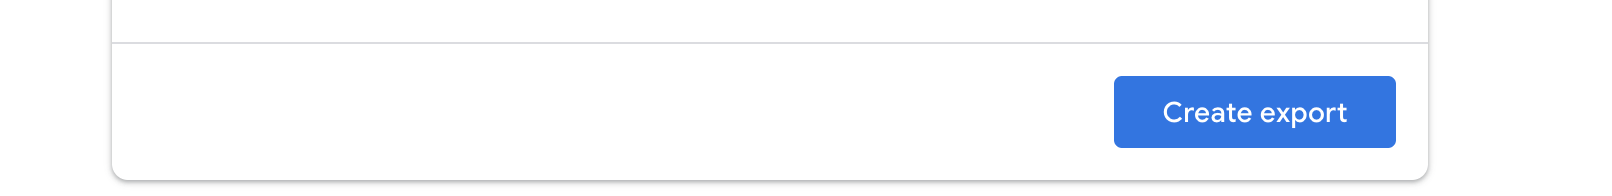
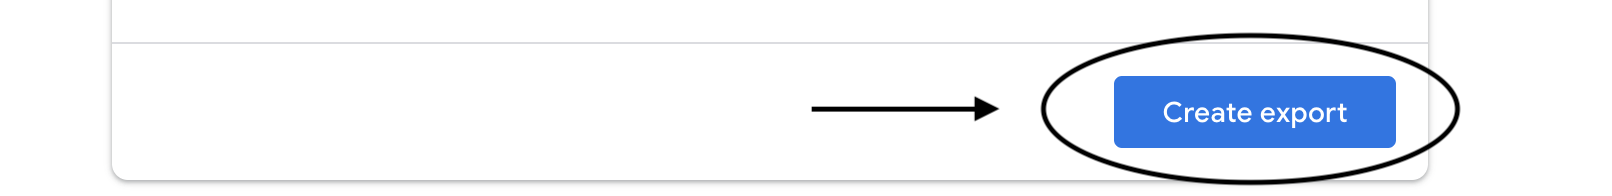
improve the step by step guide and add the first heatma

diff --git a/src/website-static/src/heatmap.html b/src/website-static/src/heatmap.html
@@ -1,0 +1,70 @@
+<!DOCTYPE html>
+<head>    
+    <meta http-equiv="content-type" content="text/html; charset=UTF-8" />
+    
+        <script>
+            L_NO_TOUCH = false;
+            L_DISABLE_3D = false;
+        </script>
+    
+    <script src="https://cdn.jsdelivr.net/npm/leaflet@1.5.1/dist/leaflet.js"></script>
+    <script src="https://code.jquery.com/jquery-1.12.4.min.js"></script>
+    <script src="https://maxcdn.bootstrapcdn.com/bootstrap/3.2.0/js/bootstrap.min.js"></script>
+    <script src="https://cdnjs.cloudflare.com/ajax/libs/Leaflet.awesome-markers/2.0.2/leaflet.awesome-markers.js"></script>
+    <link rel="stylesheet" href="https://cdn.jsdelivr.net/npm/leaflet@1.5.1/dist/leaflet.css"/>
+    <link rel="stylesheet" href="https://maxcdn.bootstrapcdn.com/bootstrap/3.2.0/css/bootstrap.min.css"/>
+    <link rel="stylesheet" href="https://maxcdn.bootstrapcdn.com/bootstrap/3.2.0/css/bootstrap-theme.min.css"/>
+    <link rel="stylesheet" href="https://maxcdn.bootstrapcdn.com/font-awesome/4.6.3/css/font-awesome.min.css"/>
+    <link rel="stylesheet" href="https://cdnjs.cloudflare.com/ajax/libs/Leaflet.awesome-markers/2.0.2/leaflet.awesome-markers.css"/>
+    <link rel="stylesheet" href="https://rawcdn.githack.com/python-visualization/folium/master/folium/templates/leaflet.awesome.rotate.css"/>
+    <style>html, body {width: 100%;height: 100%;margin: 0;padding: 0;}</style>
+    <style>#map {position:absolute;top:0;bottom:0;right:0;left:0;}</style>
+    
+            <meta name="viewport" content="width=device-width,
+                initial-scale=1.0, maximum-scale=1.0, user-scalable=no" />
+            <style>
+                #map_7236aee33f90442585986cfd964aebcf {
+                    position: relative;
+                    width: 100.0%;
+                    height: 100.0%;
+                    left: 0.0%;
+                    top: 0.0%;
+                }
+            </style>
+        
+    <script src="https://leaflet.github.io/Leaflet.heat/dist/leaflet-heat.js"></script>
+</head>
+<body>    
+    
+            <div class="folium-map" id="map_7236aee33f90442585986cfd964aebcf" ></div>
+        
+</body>
+<script>    
+    
+            var map_7236aee33f90442585986cfd964aebcf = L.map(
+                "map_7236aee33f90442585986cfd964aebcf",
+                {
+                    center: [51.244, 6.779],
+                    crs: L.CRS.EPSG3857,
+                    zoom: 6,
+                    zoomControl: true,
+                    preferCanvas: false,
+                }
+            );
+
+            
+
+        
+    
+            var tile_layer_2fa359843be443e6b532c77169dd2cba = L.tileLayer(
+                "https://{s}.tile.openstreetmap.org/{z}/{x}/{y}.png",
+                {"attribution": "Data by \u0026copy; \u003ca href=\"http://openstreetmap.org\"\u003eOpenStreetMap\u003c/a\u003e, under \u003ca href=\"http://www.openstreetmap.org/copyright\"\u003eODbL\u003c/a\u003e.", "detectRetina": false, "maxNativeZoom": 18, "maxZoom": 18, "minZoom": 0, "noWrap": false, "opacity": 1, "subdomains": "abc", "tms": false}
+            ).addTo(map_7236aee33f90442585986cfd964aebcf);
+        
+    
+            var heat_map_7eadd16f68cb4b10981fe6496fd482d6 = L.heatLayer(
+                [[51.246, 6.779, 4], [51.244, 6.779, 0], [51.244, 6.776, 3], [51.244, 6.778, 4], [51.244, 6.777, 5], [51.244, 6.775, 2], [51.244, 6.774, 2], [51.244, 6.772, 29], [51.244, 6.771, 1], [51.243, 6.772, 12], [51.226, 6.777, 32], [51.226, 6.776, 5], [51.226, 6.775, 1], [51.225, 6.775, 4], [51.225, 6.774, 4], [51.225, 6.773, 2], [51.225, 6.772, 23], [51.225, 6.771, 2], [51.226, 6.77, 2], [51.225, 6.77, 3], [51.226, 6.771, 14], [51.227, 6.771, 5], [51.227, 6.772, 21], [51.227, 6.773, 55], [51.227, 6.774, 23], [51.227, 6.775, 11], [51.227, 6.776, 22], [51.22, 6.794, 50], [51.219, 6.794, 21], [51.219, 6.795, 21], [51.22, 6.793, 7], [51.218, 6.792, 1], [51.213, 6.79, 1], [51.21, 6.79, 1], [51.208, 6.808, 1], [51.206, 6.819, 1], [51.204, 6.826, 2], [51.198, 6.843, 1], [51.189, 6.851, 2], [51.154, 6.885, 1], [51.119, 6.923, 1], [51.12, 6.922, 4], [51.014, 7.012, 1], [50.992, 7.008, 1], [50.953, 7.006, 1], [50.953, 6.992, 1], [50.953, 6.994, 1], [50.941, 6.976, 4], [50.944, 6.965, 9], [50.943, 6.965, 1], [50.943, 6.958, 54], [50.944, 6.958, 3], [50.943, 6.959, 18], [50.942, 6.957, 6], [50.943, 6.956, 1], [50.942, 6.956, 4], [50.942, 6.954, 1], [50.943, 6.961, 1], [50.942, 6.959, 1], [50.941, 6.957, 4], [50.941, 6.956, 1], [50.94, 6.958, 2], [50.939, 6.956, 1], [50.939, 6.957, 3], [50.939, 6.958, 8], [50.937, 6.956, 8], [50.935, 6.956, 2], [50.935, 6.954, 3], [50.935, 6.955, 1], [50.93, 6.96, 4], [50.933, 6.955, 3], [50.932, 6.954, 9], [50.932, 6.955, 1], [50.93, 6.952, 2], [50.931, 6.951, 1], [50.931, 6.95, 3], [50.931, 6.952, 2], [50.929, 6.95, 1], [50.932, 6.95, 1], [50.93, 6.944, 2], [50.928, 6.943, 1], [50.929, 6.943, 25], [50.929, 6.942, 10], [50.927, 6.939, 1], [50.928, 6.94, 1], [50.927, 6.938, 32], [50.93, 6.939, 16], [50.93, 6.938, 12], [50.929, 6.938, 2], [50.929, 6.937, 3], [50.928, 6.936, 5], [50.926, 6.939, 2], [50.928, 6.937, 4], [50.936, 6.931, 1], [50.938, 6.932, 1], [50.942, 6.933, 3], [50.943, 6.932, 1], [50.948, 6.934, 1], [50.952, 6.946, 2], [50.949, 6.952, 1], [50.948, 6.953, 1], [50.948, 6.954, 1], [50.947, 6.954, 2], [50.944, 6.96, 6], [50.943, 6.96, 3], [50.942, 6.971, 1], [50.94, 6.977, 2], [50.941, 6.977, 2], [50.941, 6.982, 1], [50.944, 6.992, 1], [50.945, 6.995, 1], [50.952, 7.003, 3], [50.956, 7.011, 4], [50.932, 6.972, 1], [51.029, 6.993, 3], [51.032, 6.992, 2], [51.033, 6.991, 2], [51.039, 6.99, 5], [51.102, 6.938, 3], [51.129, 6.913, 3], [51.166, 6.872, 1], [51.17, 6.875, 1], [51.178, 6.868, 2], [51.187, 6.854, 1], [51.206, 6.813, 2], [51.214, 6.791, 1], [51.217, 6.792, 1], [51.22, 6.795, 43], [51.213, 6.806, 1], [51.213, 6.807, 0], [51.212, 6.807, 13], [51.213, 6.808, 40], [51.214, 6.806, 1], [51.215, 6.804, 1], [51.22, 6.8, 2], [51.22, 6.799, 2], [51.225, 6.795, 1], [51.227, 6.793, 2], [51.228, 6.793, 3], [51.228, 6.792, 1], [51.232, 6.789, 1], [51.232, 6.788, 2], [51.233, 6.788, 1], [51.235, 6.788, 1], [51.239, 6.787, 2], [51.241, 6.784, 1], [51.242, 6.783, 2], [51.242, 6.78, 2], [51.245, 6.775, 11], [51.243, 6.781, 13], [51.245, 6.779, 7], [51.242, 6.782, 1], [51.241, 6.774, 1], [51.238, 6.778, 2], [51.235, 6.777, 1], [51.234, 6.779, 2], [51.233, 6.78, 1], [51.23, 6.777, 2], [51.227, 6.777, 1], [51.228, 6.776, 178], [51.226, 6.774, 2], [51.224, 6.775, 1], [51.224, 6.776, 1], [51.223, 6.776, 23], [51.223, 6.772, 1], [51.222, 6.774, 33], [51.222, 6.775, 4], [51.226, 6.778, 3], [51.22, 6.792, 1], [51.224, 6.795, 5], [51.226, 6.792, 2], [51.23, 6.787, 4], [51.231, 6.793, 5], [51.241, 6.783, 1], [51.245, 6.78, 5], [51.244, 6.781, 2], [51.221, 6.791, 1], [51.221, 6.792, 2], [49.484, 8.448, 7], [50.98, 7.013, 1], [50.976, 7.013, 1], [50.053, 8.569, 8], [50.081, 8.637, 2], [50.083, 8.639, 1], [50.084, 8.638, 1], [50.087, 8.636, 1], [50.107, 8.663, 13], [50.106, 8.664, 1], [50.108, 8.661, 2], [50.283, 8.772, 1], [50.579, 8.666, 1], [50.592, 8.671, 1], [50.816, 8.777, 1], [50.807, 8.811, 19], [50.807, 8.81, 7], [50.801, 8.764, 341], [50.8, 8.766, 1], [50.8, 8.788, 1], [50.798, 8.78, 1], [50.795, 8.764, 1], [50.803, 8.759, 1], [50.807, 8.764, 1], [50.807, 8.768, 1], [50.819, 8.774, 5], [50.821, 8.773, 12], [50.821, 8.772, 1], [50.794, 8.764, 1], [50.794, 8.763, 3], [50.802, 8.762, 1], [50.807, 8.772, 1], [50.82, 8.773, 1], [50.808, 8.776, 1], [50.807, 8.777, 3], [50.802, 8.766, 3], [50.797, 8.772, 1], [51.244, 6.78, 1], [51.245, 6.783, 11], [51.244, 6.783, 4], [51.207, 6.774, 260], [51.21, 6.777, 5], [51.211, 6.774, 7], [51.208, 6.775, 13], [51.208, 6.776, 3], [47.547, 7.59, 9], [47.547, 7.589, 2], [50.053, 8.57, 4], [50.053, 8.571, 1], [50.103, 8.653, 1], [50.103, 8.655, 1], [50.104, 8.656, 1], [50.105, 8.662, 1], [50.106, 8.663, 1], [50.108, 8.663, 2], [50.108, 8.662, 4], [50.106, 8.66, 1], [50.333, 8.761, 2], [50.431, 8.67, 1], [50.58, 8.663, 1], [50.814, 8.769, 30], [50.811, 8.775, 36], [50.81, 8.774, 2], [50.809, 8.774, 1], [50.801, 8.765, 3], [50.8, 8.764, 1], [50.809, 8.773, 1], [50.819, 8.775, 2], [50.151, 8.639, 1], [50.937, 6.966, 1], [50.942, 6.969, 1], [50.944, 6.959, 1], [51.106, 6.935, 1], [51.207, 6.817, 1], [51.21, 6.792, 1], [51.213, 6.791, 1], [51.215, 6.791, 1], [51.212, 6.789, 1], [51.207, 6.775, 1], [51.208, 6.777, 4], [51.226, 6.782, 1], [51.226, 6.783, 15], [51.24, 6.781, 3], [51.239, 6.78, 2], [51.236, 6.779, 2], [51.231, 6.78, 1], [51.209, 6.777, 2], [51.207, 6.771, 1], [51.21, 6.76, 1], [51.213, 6.747, 2], [51.214, 6.746, 12], [51.215, 6.756, 5], [51.215, 6.755, 3], [51.214, 6.756, 1], [51.214, 6.755, 2], [51.213, 6.753, 5], [51.212, 6.785, 1], [51.217, 6.79, 1], [51.22, 6.791, 1], [51.222, 6.792, 1], [51.225, 6.787, 1], [51.24, 6.782, 3], [51.238, 6.779, 1], [51.209, 6.776, 3], [51.229, 6.778, 1], [51.234, 6.778, 1], [51.241, 6.782, 2], [51.227, 6.783, 1], [51.21, 6.775, 1], [51.21, 6.776, 1], [51.21, 6.774, 1], [51.233, 6.779, 2], [51.246, 6.781, 1], [51.245, 6.782, 2], [51.21, 6.78, 1], [51.207, 6.778, 1], [51.241, 6.778, 2], [51.237, 6.776, 1], [51.234, 6.784, 1], [51.229, 6.791, 2], [50.051, 8.571, 2], [50.051, 8.57, 1], [50.05, 8.569, 1], [50.049, 8.569, 1], [50.049, 8.566, 1], [50.048, 8.563, 4], [50.048, 8.562, 1], [50.048, 8.564, 10], [50.048, 8.565, 5], [50.048, 8.568, 1], [50.048, 8.566, 1], [38.78, -9.13, 1], [38.782, -9.129, 1], [38.771, -9.14, 1], [38.768, -9.128, 1], [38.7, -9.295, 0], [38.695, -9.304, 5], [38.694, -9.304, 9], [38.731, -9.146, 1], [38.743, -9.134, 1], [38.745, -9.135, 1], [38.744, -9.137, 2], [38.707, -9.296, 1], [38.711, -9.289, 4], [38.711, -9.288, 1], [38.706, -9.295, 2], [52.361, 4.942, 0], [52.361, 4.941, 17], [52.358, 4.948, 1], [52.367, 4.913, 23], [52.367, 4.912, 23], [52.367, 4.91, 1], [52.369, 4.903, 2], [52.372, 4.9, 1], [52.373, 4.883, 1], [52.369, 4.871, 17], [52.369, 4.87, 2], [52.37, 4.871, 1], [52.36, 4.942, 4], [52.358, 4.917, 1], [52.35, 4.892, 1], [52.345, 4.857, 1], [52.331, 4.852, 17], [52.332, 4.852, 22], [52.332, 4.857, 2], [52.341, 4.894, 1], [52.361, 4.94, 5], [52.365, 4.937, 1], [52.365, 4.936, 12], [52.359, 4.941, 1], [52.36, 4.941, 1], [52.362, 4.94, 5], [52.377, 4.912, 26], [52.375, 4.917, 3], [52.359, 4.917, 1], [52.363, 4.911, 16], [52.362, 4.911, 17], [52.376, 4.911, 1], [52.362, 4.941, 1], [52.36, 4.94, 1], [52.358, 4.927, 15], [52.358, 4.926, 1], [38.7, -9.296, 0], [38.703, -9.295, 3], [38.802, -9.379, 58], [38.803, -9.375, 1], [38.802, -9.38, 4], [38.801, -9.378, 10], [38.702, -9.297, 43], [38.697, -9.293, 1], [38.695, -9.292, 2], [38.691, -9.358, 14], [38.691, -9.357, 3], [38.691, -9.356, 1], [38.697, -9.292, 34], [38.703, -9.299, 1], [38.749, -9.231, 17], [38.75, -9.232, 3], [38.75, -9.23, 21], [38.749, -9.229, 1], [38.747, -9.241, 1], [38.698, -9.295, 15], [38.701, -9.294, 2], [38.71, -9.287, 1], [38.71, -9.275, 1], [38.747, -9.271, 1], [38.749, -9.23, 1], [38.747, -9.235, 2], [38.748, -9.269, 1], [38.704, -9.298, 9], [39.086, -9.256, 1], [39.092, -9.256, 5], [39.091, -9.256, 1], [38.706, -9.302, 3], [38.705, -9.302, 6], [38.702, -9.295, 26], [38.693, -9.297, 1], [38.802, -9.132, 1], [38.784, -9.108, 1], [38.714, -8.973, 1], [38.71, -8.974, 1], [38.708, -8.974, 43], [38.708, -8.975, 7], [38.709, -8.974, 1], [38.711, -8.973, 3], [38.709, -8.975, 1], [38.711, -8.948, 1], [38.767, -9.096, 2], [38.757, -9.27, 9], [38.697, -9.302, 2], [38.703, -9.308, 2], [38.702, -9.308, 2], [38.698, -9.302, 2], [38.679, -9.326, 2], [38.678, -9.325, 10], [38.685, -9.313, 1], [38.698, -9.296, 20], [38.692, -9.296, 5], [38.695, -9.293, 1], [38.678, -9.329, 1], [38.687, -9.353, 1], [38.691, -9.355, 6], [38.69, -9.355, 5], [38.69, -9.356, 2], [38.69, -9.354, 8], [38.689, -9.345, 1], [38.69, -9.341, 1], [38.692, -9.327, 1], [38.692, -9.328, 1], [38.691, -9.317, 1], [38.745, -9.164, 1], [38.743, -9.169, 3], [38.745, -9.166, 1], [38.744, -9.169, 1], [38.743, -9.17, 1], [38.743, -9.168, 5], [38.697, -9.3, 1], [38.702, -9.294, 9], [38.712, -9.304, 3], [38.703, -9.301, 2], [38.705, -9.303, 4], [38.758, -9.237, 18], [38.756, -9.235, 2], [38.703, -9.294, 74], [38.735, -9.158, 24], [38.734, -9.158, 63], [38.735, -9.159, 20], [38.738, -9.157, 1], [38.714, -9.276, 1], [38.74, -9.159, 2], [38.743, -9.154, 15], [38.744, -9.157, 1], [38.729, -9.171, 1], [38.724, -9.173, 3], [38.705, -9.238, 2], [38.704, -9.238, 1], [38.706, -9.239, 1], [38.703, -9.298, 8], [38.699, -9.291, 2], [38.698, -9.292, 4], [38.704, -9.296, 11], [38.698, -9.291, 5], [38.693, -9.298, 18], [38.681, -9.347, 1], [38.692, -9.359, 1], [38.682, -9.317, 1], [38.701, -9.296, 1], [38.714, -9.3, 2], [38.701, -9.295, 171], [38.711, -9.297, 1], [38.75, -9.229, 12], [38.75, -9.233, 1], [38.748, -9.252, 1], [38.696, -9.294, 3], [38.709, -9.28, 1], [38.711, -9.271, 1], [38.769, -9.269, 1], [38.772, -9.264, 1], [38.773, -9.258, 1], [38.779, -9.248, 1], [38.783, -9.245, 1], [38.786, -9.242, 1], [38.788, -9.24, 1], [38.79, -9.24, 1], [38.788, -9.176, 1], [38.787, -9.177, 1], [38.787, -9.173, 1], [38.773, -9.102, 1], [38.712, -8.984, 1], [38.795, -9.118, 1], [38.699, -9.292, 2], [38.719, -9.298, 1], [38.703, -9.296, 8], [38.706, -9.303, 1], [38.701, -9.297, 76], [38.692, -9.298, 48], [38.692, -9.297, 2], [38.705, -9.295, 3], [38.705, -9.294, 1], [38.706, -9.294, 3], [38.698, -9.293, 1], [38.697, -9.294, 1], [38.699, -9.3, 2], [38.698, -9.3, 1], [38.725, -9.444, 8], [38.725, -9.443, 1], [38.702, -9.296, 6], [38.801, -9.379, 4], [38.802, -9.377, 2], [38.777, -9.323, 1], [38.764, -9.306, 1], [38.751, -9.306, 1], [38.714, -9.297, 2], [38.707, -9.295, 2], [38.706, -9.298, 1], [38.706, -9.301, 4], [38.699, -9.295, 1], [38.759, -9.306, 1], [38.7, -9.294, 8], [38.7, -9.293, 1], [38.704, -9.295, 1], [38.708, -9.295, 2], [38.801, -9.376, 1], [38.802, -9.376, 2], [38.801, -9.377, 2], [38.712, -9.297, 1], [38.712, -9.296, 2], [38.713, -9.297, 3], [38.715, -9.301, 1], [38.714, -9.302, 1], [38.716, -9.407, 7], [38.718, -9.407, 36], [38.717, -9.407, 12], [38.696, -9.299, 3], [38.695, -9.299, 3], [38.694, -9.299, 3], [38.694, -9.298, 1], [38.695, -9.298, 3], [38.695, -9.297, 1], [38.691, -9.297, 7], [38.696, -9.292, 1], [38.714, -9.299, 1], [38.715, -9.3, 1], [38.714, -9.301, 1], [38.716, -9.408, 2]],
+                {"blur": 2, "max": 401, "maxZoom": 5, "minOpacity": 0.2, "radius": 7}
+            ).addTo(map_7236aee33f90442585986cfd964aebcf);
+        
+</script>

diff --git a/src/website-static/src/howto.html b/src/website-static/src/howto.html
@@ -76,6 +76,11 @@ http://www.tooplate.com/view/2098-health
      <section id="appointment" data-stellar-background-ratio="3">
           <div class="container">
                <div class="row">
+                    <div class="col-md-8 col-sm-12">
+                         <p>We need to access your location history for the past 15 days and Google takeout allows you to download your google data. </p>
+                         <p>We take your privacy very seriously. We will only use your data for the past 15 days and it will be and stored in a secured manner in our servers.</p>
+                         <h3>Follow this steps to obtain your location data</h3>
+                    </div>
 
                     <div class="col-md-8 col-sm-12">
                          <h3>Step 1</h3>
@@ -116,7 +121,7 @@ http://www.tooplate.com/view/2098-health
 
                     <div class="col-md-8 col-sm-12" style="margin-top:20px">
                          <h3>Step 7</h3>
-                         <h5>After the export is created (might take some minutes) click on "Download"</h5>
+                         <h5>After the export is created (might take some minutes) click on "Download". You might need to input your google password</h5>
                          <img src="images/step7.png" class="img-responsive" alt="" height="50px" style="opacity:0.8">
                     </div>
 
@@ -124,12 +129,14 @@ http://www.tooplate.com/view/2098-health
                     <div class="col-md-8 col-sm-12" style="margin-top:20px">
                          <h3>Step 8</h3>
                          <h5>Open and Unzip the folder</h5>
-                         <img src="images/step8.png" class="img-responsive" alt="" height="50px" style="opacity:0.8">
+                         <img src="images/step8.png" class="img-responsive" alt="" style="opacity:0.8;margin-bottom: 20px;">
+                         <h5>And extract the content (make sure you remember the new location of the file)</h5>
+                         <img src="images/step8win.png" class="img-responsive" alt="" height="50px" style="opacity:0.8">
                     </div>
 
                     <div class="col-md-8 col-sm-12" style="margin-top:20px">
                          <h3>Step 9</h3>
-                         <h5>Select the "Location History.json" file</h5>
+                         <h5>Go back to the upload page and click on "Choose file". Then select <b>only the "Location History.json" file</b></h5>
                          <img src="images/step9.png" class="img-responsive" alt="" height="50px" style="opacity:0.8">
                     </div>
 

diff --git a/src/website-static/src/map.html b/src/website-static/src/map.html
@@ -93,13 +93,12 @@
      <section id="news-detail" data-stellar-background-ratio="0.5" style="background-position: 0px -21px;">
           <div class="container">
                <div class="row">
+                    <div class="col-md-12 col-sm-7">
+                         <iframe src="heatmap.html" width="100%" height="500px"></iframe>
+                    </div>
 
                     <div class="col-md-12 col-sm-7">
-                         <!-- NEWS THUMB -->
                          <div class="news-detail-thumb">
-                              <div class="news-image">
-                                   <img src="images/map.jpg" class="img-responsive" alt="">
-                              </div>
                               <h3>More Information</h3>
                               <p>Our health specialist compile a list of suggestions that change depending on the risk
                                    of infection</p>

diff --git a/src/website-static/src/upload.html b/src/website-static/src/upload.html
@@ -123,7 +123,9 @@ http://www.tooplate.com/view/2098-health
                                    <div class="col-md-12 col-sm-12 hidden" id="uploadfield" style="margin-top: 30px;">
                                         <div class="col-md-12 col-sm-12">
                                              <div>
-                                                  Select your Google file <b>Takeout Location.json</b>
+                                                  <p>Select your Google file <b>Location History.json</b></p>
+                                                  <p>If you don't know of to obtain this file please follow our </p>
+                                                  <p><a href="howto.html"><u>Step by Step Guide</u></a></p>
                                              </div>
                                         </div>
                                         <div class="col-md-12 col-sm-12">

diff --git a/src/website-static/src/index.html b/src/website-static/src/index.html
@@ -121,7 +121,7 @@ http://www.tooplate.com/view/2098-health
                               <h4 class="wow fadeInUp animated animated" data-wow-delay="0.4s"
                                    style="visibility: hidden; animation-delay: 0.4s; animation-name: none;">Contact Info
                               </h4>
-                              <p>We are fighting an war against an invisible threat. The data provided by the media is
+                              <p>We are fighting a war against an invisible threat. The data provided by the media is
                                    not granular enough to give us the necessary confidence to continue our daily lives.
                                    COVID-19 TRACING its a platform where we want to share information about places that
                                    infected visited in the last 15 days. By making this information available we hope to
